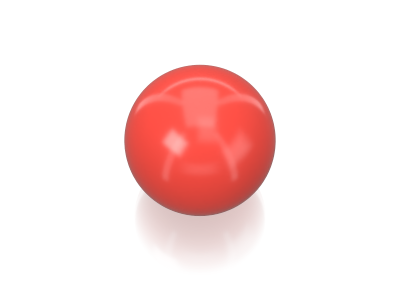
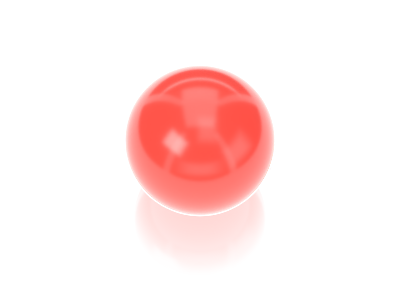
Catalogue Studio: the floor lights what stands on it, and a metal top has something to mirror
A white sweep bounces light up onto every upright face; without it an
anodised case's front mirrored a black room and came out navy. And a
large, dim source high behind gives a metal top its soft gradient,
faint enough that a painted top is barely paled by it.

Changed region(s): [[0.3, 0.21, 0.69, 0.81]]

diff --git a/crates/tequila-format/examples/builtin_studios.rs b/crates/tequila-format/examples/builtin_studios.rs
@@ -114,8 +114,11 @@ fn catalogue_studio() -> StudioPreset {
         softbox("Key", -130.0, 38.0, 0.7, 0.5, 10.0),
         softbox("Overhead", 150.0, 68.0, 0.9, 0.7, 2.6),
         softbox("Fill", 118.0, 17.0, 1.0, 0.8, 3.0),
-        wide(softbox("Front", 180.0, 11.0, 1.2, 0.8, 1.5), 1.2, 0.45),
+        wide(softbox("Front", 180.0, 11.0, 1.2, 0.8, 2.5), 1.4, 0.5),
         wide(softbox("Back strip", 0.0, 20.0, 1.6, 0.4, 5.0), 1.6, 0.12),
+        // What a metal top has to reflect: large and dim, so a painted
+        // top is barely touched by it.
+        wide(softbox("High back", 0.0, 52.0, 1.5, 0.9, 0.6), 1.5, 0.7),
     ];
     let environment = EnvironmentSettings {
         image: None,
@@ -125,6 +128,11 @@ fn catalogue_studio() -> StudioPreset {
         ground: GroundSettings {
             enabled: true,
             shadows: false,
+            // The white floor lights what stands on it from below, as a
+            // sweep of white paper does: without it every upright face of
+            // a metal mirrors a black room.
+            bounce: true,
+            bounce_strength: 3.0,
             reflections: 0.3,
             reflection_blur: 0.02,
             reflection_fade_distance: 0.05,
